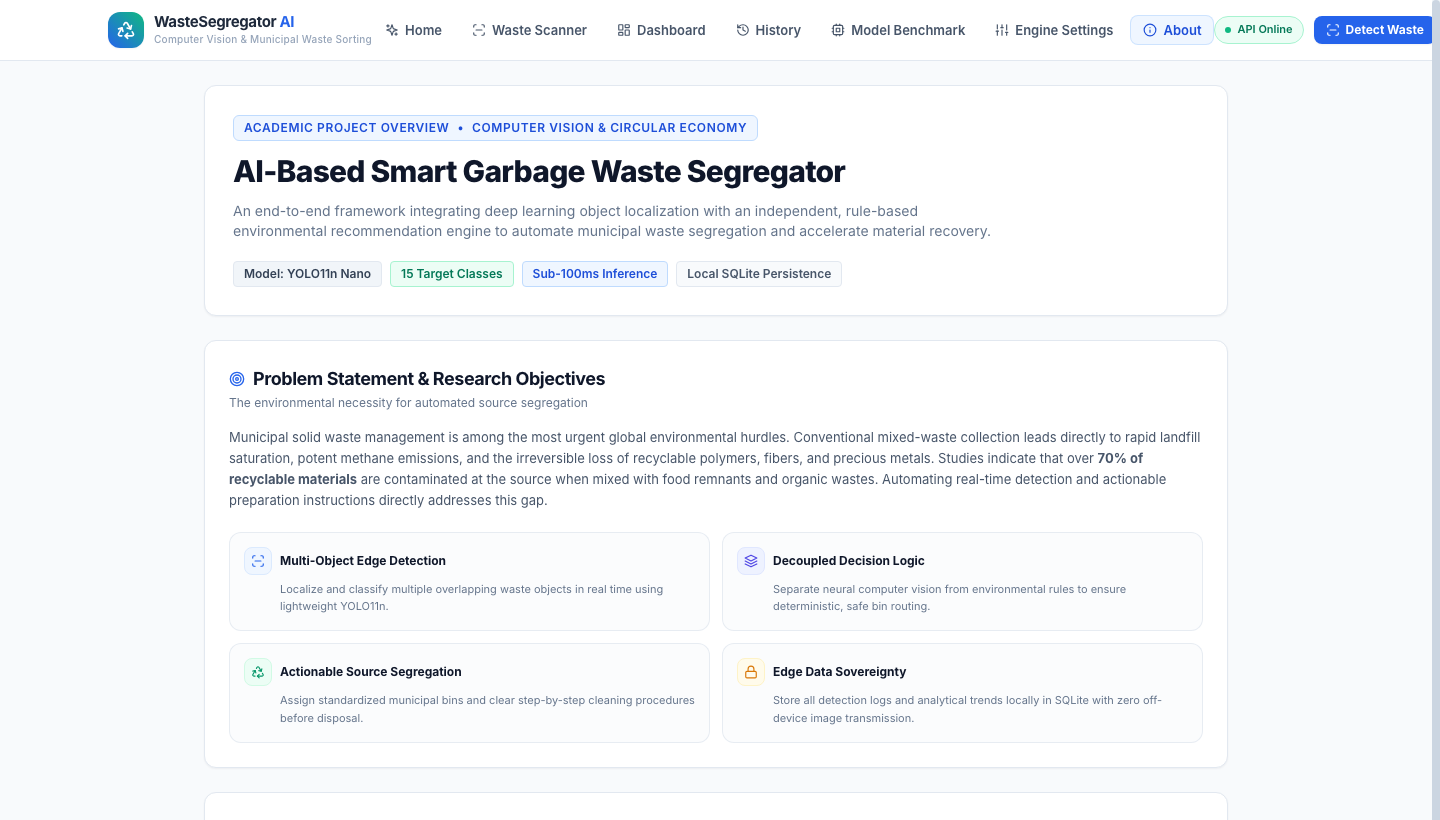
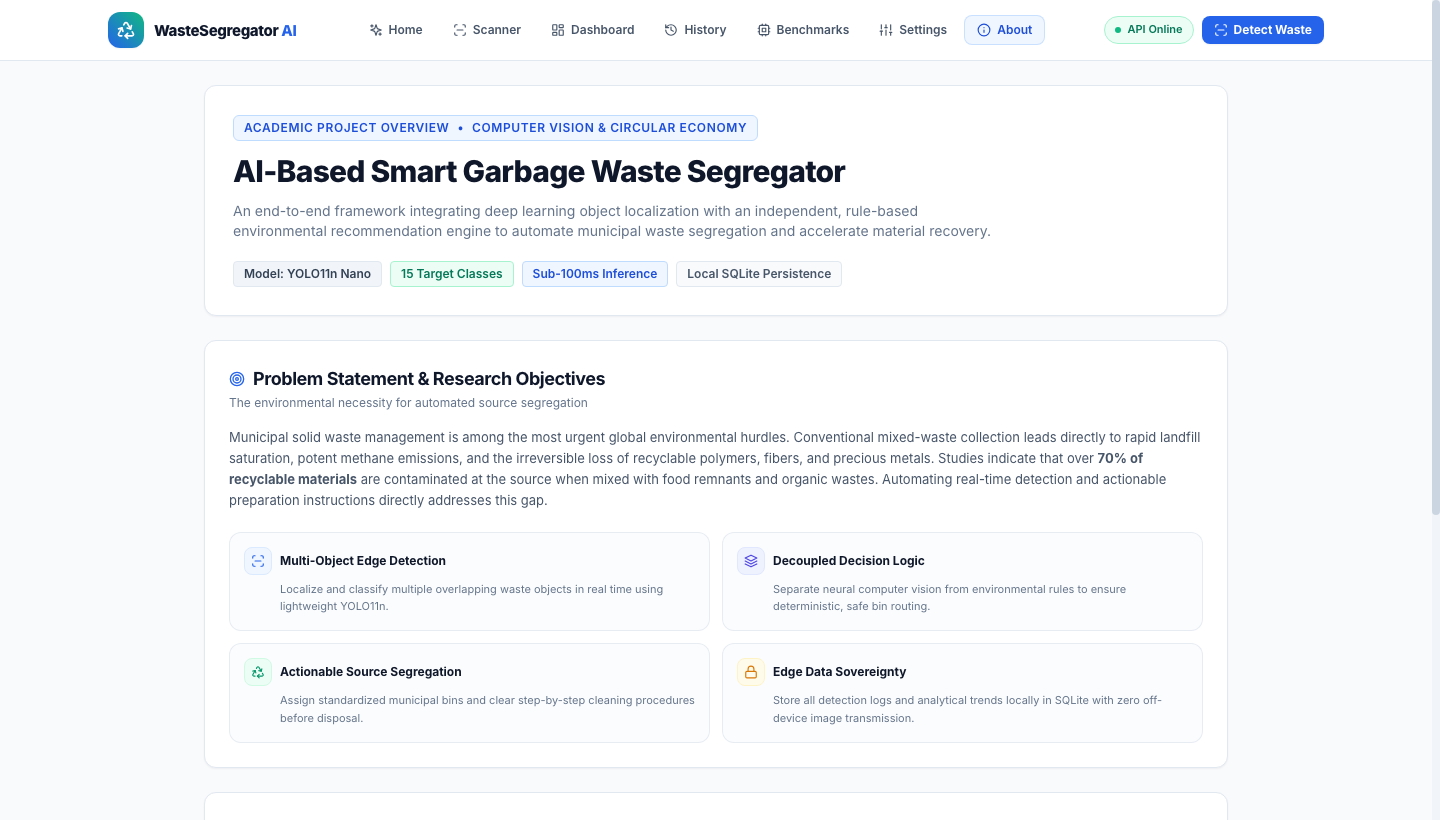
fix(navbar): streamline labels and align navigation header across all screen sizes

Changed region(s): [[0.0938, 0.0, 1.0, 0.061], [0.9688, 0.6402, 1.0, 1.0]]

diff --git a/frontend/src/components/Navbar.jsx b/frontend/src/components/Navbar.jsx
@@ -1,26 +1,28 @@
 /**
- * AutomataX-Styled Compact Top Navigation Bar
- * AI-Based Smart Garbage Waste Segregator
+ * WasteSegregator AI — Enterprise Responsive Navigation Bar
+ * Perfectly aligned across all screen resolutions (Mobile, Laptop, Desktop).
  */
 import React, { useState, useEffect } from 'react';
-import { NavLink, useNavigate } from 'react-router-dom';
+import { NavLink, useNavigate, useLocation } from 'react-router-dom';
 import {
   LayoutDashboard,
   ScanLine,
   History,
-  BarChart3,
   Info,
   Sliders,
   Sparkles,
-  Database,
   Cpu,
-  Recycle
+  Recycle,
+  Menu,
+  X
 } from 'lucide-react';
 import { checkHealth } from '../services/api';
 
 const Navbar = () => {
   const navigate = useNavigate();
+  const location = useLocation();
   const [health, setHealth] = useState(null);
+  const [mobileMenuOpen, setMobileMenuOpen] = useState(false);
 
   useEffect(() => {
     checkHealth()
@@ -28,40 +30,45 @@ const Navbar = () => {
       .catch(() => setHealth(null));
   }, []);
 
+  // Close mobile menu on route change
+  useEffect(() => {
+    setMobileMenuOpen(false);
+  }, [location.pathname]);
+
   const navItems = [
     { to: '/', label: 'Home', icon: Sparkles, exact: true },
-    { to: '/detect', label: 'Waste Scanner', icon: ScanLine },
+    { to: '/detect', label: 'Scanner', icon: ScanLine },
     { to: '/dashboard', label: 'Dashboard', icon: LayoutDashboard },
     { to: '/history', label: 'History', icon: History },
-    { to: '/training', label: 'Model Benchmark', icon: Cpu },
-    { to: '/settings', label: 'Engine Settings', icon: Sliders },
+    { to: '/training', label: 'Benchmarks', icon: Cpu },
+    { to: '/settings', label: 'Settings', icon: Sliders },
     { to: '/about', label: 'About', icon: Info },
   ];
 
   return (
     <header className="sticky top-0 z-40 bg-white/95 backdrop-blur-md border-b border-slate-200 shadow-2xs">
       <div className="max-w-7xl mx-auto px-4 sm:px-6 lg:px-8">
-        <div className="flex items-center justify-between h-[60px]">
+        <div className="flex items-center justify-between h-[60px] gap-2">
           {/* Brand Logo & Name */}
           <div
             onClick={() => navigate('/')}
-            className="flex items-center gap-2.5 cursor-pointer select-none group flex-shrink-0"
+            className="flex items-center gap-2 sm:gap-2.5 cursor-pointer select-none group flex-shrink-0"
           >
-            <div className="w-9 h-9 rounded-xl bg-gradient-to-tr from-blue-600 to-emerald-500 flex items-center justify-center text-white shadow-xs group-hover:scale-105 transition-all duration-150">
-              <Recycle className="w-5 h-5 text-white" />
+            <div className="w-8 h-8 sm:w-9 sm:h-9 rounded-xl bg-gradient-to-tr from-blue-600 to-emerald-500 flex items-center justify-center text-white shadow-xs group-hover:scale-105 transition-transform duration-150">
+              <Recycle className="w-4 h-4 sm:w-5 sm:h-5 text-white" />
             </div>
             <div className="flex flex-col">
-              <span className="font-bold text-slate-800 text-[15px] tracking-tight leading-none group-hover:text-blue-600 transition-colors">
-                WasteSegregator <span className="text-blue-600 font-bold">AI</span>
+              <span className="font-extrabold text-slate-900 text-sm sm:text-[15px] tracking-tight leading-none group-hover:text-blue-600 transition-colors">
+                WasteSegregator <span className="text-blue-600 font-extrabold">AI</span>
               </span>
-              <span className="text-[10px] text-slate-400 font-medium tracking-wide mt-0.5">
-                Computer Vision & Municipal Waste Sorting
+              <span className="text-[10px] text-slate-400 font-medium tracking-wide mt-0.5 hidden 2xl:block">
+                Computer Vision & Municipal Sorting
               </span>
             </div>
           </div>
 
-          {/* Nav Links */}
-          <nav className="hidden lg:flex items-center gap-1">
+          {/* Desktop Nav Links (Perfectly Centered & Aligned) */}
+          <nav className="hidden lg:flex items-center gap-0.5 xl:gap-1">
             {navItems.map((item) => {
               const Icon = item.icon;
               return (
@@ -70,53 +77,85 @@ const Navbar = () => {
                   to={item.to}
                   end={item.exact}
                   className={({ isActive }) =>
-                    `px-2.5 sm:px-3 py-1.5 rounded-lg text-xs sm:text-[13px] font-semibold flex items-center gap-1.5 whitespace-nowrap transition-all duration-150 border ${
+                    `px-2.5 xl:px-3 py-1.5 rounded-lg text-xs font-semibold flex items-center gap-1.5 whitespace-nowrap transition-all duration-150 border ${
                       isActive
-                        ? 'bg-blue-50 text-blue-700 font-bold border-blue-200/70 shadow-2xs'
-                        : 'border-transparent text-slate-600 hover:text-slate-900 hover:bg-slate-100/70'
+                        ? 'bg-blue-50 text-blue-700 font-bold border-blue-200/80 shadow-2xs'
+                        : 'border-transparent text-slate-600 hover:text-slate-900 hover:bg-slate-100/80'
                     }`
                   }
                 >
                   <Icon className="w-3.5 h-3.5 flex-shrink-0" />
-                  <span className="whitespace-nowrap">{item.label}</span>
+                  <span>{item.label}</span>
                 </NavLink>
               );
             })}
           </nav>
 
-          {/* Right Status Pill & CTA */}
-          <div className="flex items-center gap-2.5 flex-shrink-0">
-            {/* System Status Pill (Compact) */}
+          {/* Right Status Pill, Quick CTA & Mobile Hamburger */}
+          <div className="flex items-center gap-2 flex-shrink-0">
+            {/* Live API Status Badge */}
             <div
-              className={`hidden sm:flex items-center gap-1.5 px-2.5 py-1 rounded-full text-[11px] font-semibold border ${
+              className={`flex items-center gap-1.5 px-2.5 py-1 rounded-full text-[11px] font-semibold border ${
                 health?.status === 'healthy'
                   ? 'bg-emerald-50 text-emerald-700 border-emerald-200'
                   : 'bg-rose-50 text-rose-700 border-rose-200'
               }`}
             >
-              {health?.status === 'healthy' ? (
-                <>
-                  <span className="w-1.5 h-1.5 rounded-full bg-emerald-500 animate-pulse" />
-                  <span>API Online</span>
-                </>
-              ) : (
-                <>
-                  <span className="w-1.5 h-1.5 rounded-full bg-rose-500" />
-                  <span>API Offline</span>
-                </>
-              )}
+              <span
+                className={`w-1.5 h-1.5 rounded-full ${
+                  health?.status === 'healthy' ? 'bg-emerald-500 animate-pulse' : 'bg-rose-500'
+                }`}
+              />
+              <span className="hidden sm:inline">
+                {health?.status === 'healthy' ? 'API Online' : 'API Offline'}
+              </span>
             </div>
 
-            {/* Quick Action Button (Compact) */}
+            {/* Quick Action Button (Desktop CTA) */}
             <button
               onClick={() => navigate('/detect')}
-              className="px-3 py-1.5 bg-blue-600 hover:bg-blue-700 active:bg-blue-800 text-white rounded-lg text-xs font-bold shadow-xs transition-all duration-150 flex items-center gap-1.5 whitespace-nowrap"
+              className="hidden sm:inline-flex items-center gap-1.5 px-3 py-1.5 bg-blue-600 hover:bg-blue-700 active:scale-95 text-white rounded-lg text-xs font-bold shadow-xs transition-all whitespace-nowrap cursor-pointer"
             >
-              <ScanLine className="w-3.5 h-3.5 flex-shrink-0" />
+              <ScanLine className="w-3.5 h-3.5" />
               <span>Detect Waste</span>
+            </button>
+
+            {/* Mobile / Tablet Menu Button */}
+            <button
+              onClick={() => setMobileMenuOpen(!mobileMenuOpen)}
+              className="lg:hidden p-1.5 rounded-lg text-slate-600 hover:text-slate-900 hover:bg-slate-100 border border-slate-200 transition-colors"
+              aria-label="Toggle navigation menu"
+            >
+              {mobileMenuOpen ? <X className="w-5 h-5" /> : <Menu className="w-5 h-5" />}
             </button>
           </div>
         </div>
+
+        {/* Mobile / Tablet Dropdown Menu */}
+        {mobileMenuOpen && (
+          <div className="lg:hidden border-t border-slate-200 py-2 space-y-1 animate-in fade-in slide-in-from-top-2 duration-150">
+            {navItems.map((item) => {
+              const Icon = item.icon;
+              return (
+                <NavLink
+                  key={item.to}
+                  to={item.to}
+                  end={item.exact}
+                  className={({ isActive }) =>
+                    `px-3 py-2 rounded-lg text-xs font-semibold flex items-center gap-2.5 transition-colors ${
+                      isActive
+                        ? 'bg-blue-50 text-blue-700 font-bold border border-blue-200/80'
+                        : 'text-slate-600 hover:text-slate-900 hover:bg-slate-100'
+                    }`
+                  }
+                >
+                  <Icon className="w-4 h-4 flex-shrink-0" />
+                  <span>{item.label}</span>
+                </NavLink>
+              );
+            })}
+          </div>
+        )}
       </div>
     </header>
   );
